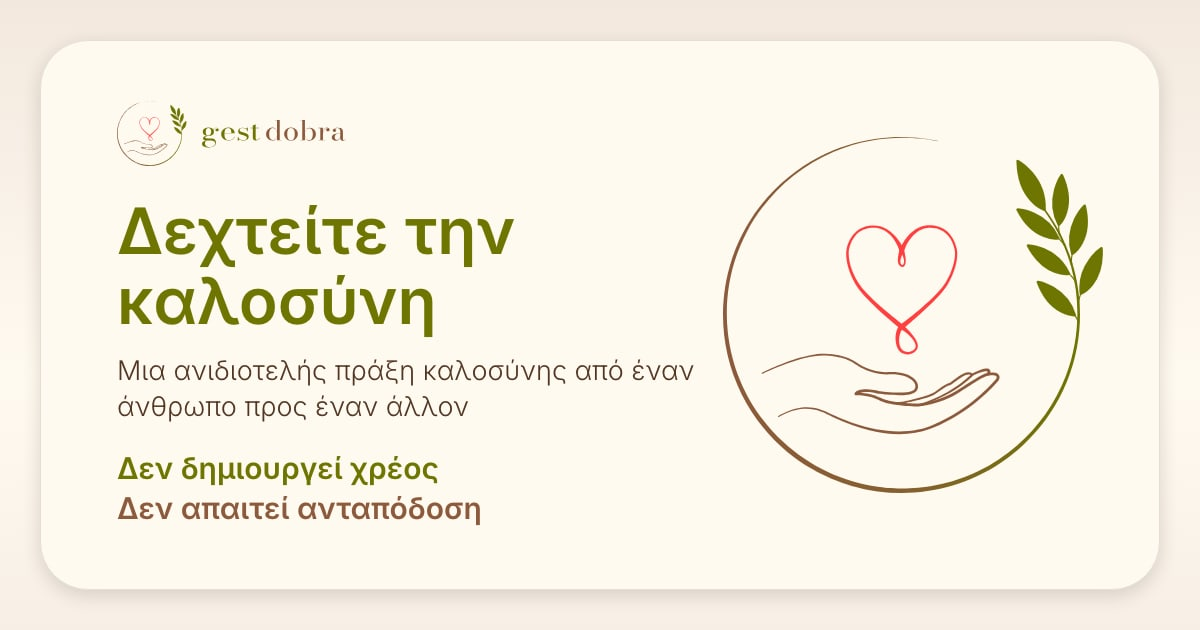
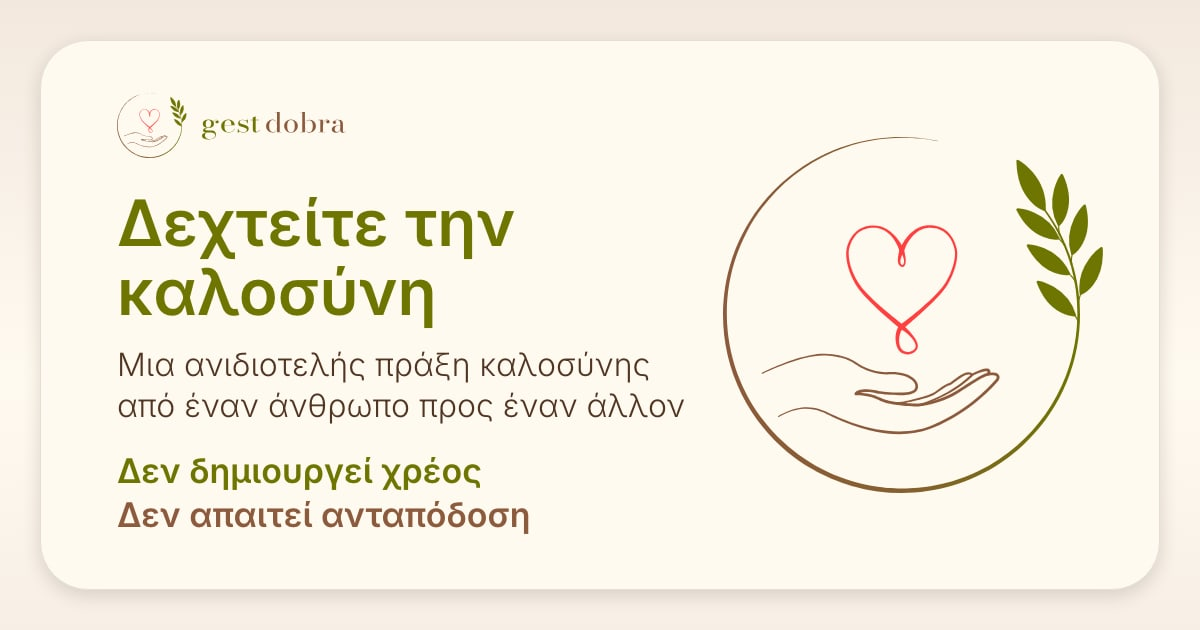
Grafika podglądu linku: większy opis i hasła, wersja edytowalna SVG (v2.0.3)

diff --git a/el/pos-leitourgei.html b/el/pos-leitourgei.html
@@ -25,7 +25,7 @@
   <meta property="og:title" content="Πώς λειτουργεί το Gest Dobra; Αρχές, κάρτα και συχνές ερωτήσεις">
   <meta property="og:description" content="Γνωρίστε τις αρχές του Gest Dobra, τον ρόλο της κάρτας, την ελευθερία από κάθε υποχρέωση ανταπόδοσης και τις απαντήσεις στις συχνότερες ερωτήσεις.">
   <meta property="og:url" content="https://gestdobra.pl/el/pos-leitourgei.html">
-  <meta property="og:image" content="https://gestdobra.pl/assets/img/og-image-el.jpg?v=2">
+  <meta property="og:image" content="https://gestdobra.pl/assets/img/og-image-el.jpg?v=3">
   <meta property="og:image:width" content="1200">
   <meta property="og:image:height" content="630">
   <meta property="og:image:alt" content="Λογότυπο Gest Dobra – μια καρδιά πάνω από ένα ανοιχτό χέρι και η φράση «Δεχτείτε την καλοσύνη»">
@@ -97,7 +97,7 @@
         },
         "primaryImageOfPage": {
           "@type": "ImageObject",
-          "url": "https://gestdobra.pl/assets/img/og-image-el.jpg?v=2",
+          "url": "https://gestdobra.pl/assets/img/og-image-el.jpg?v=3",
           "width": 1200,
           "height": 630
         },

diff --git a/el/index.html b/el/index.html
@@ -25,7 +25,7 @@
   <meta property="og:title" content="Gest Dobra – ανιδιοτελής βοήθεια που μπορείτε να μεταδώσετε">
   <meta property="og:description" content="Gest Dobra σημαίνει ανιδιοτελής βοήθεια, χωρίς χρέος και χωρίς ανταπόδοση. Δεχτείτε την καλοσύνη και, αν θέλετε, μεταδώστε τη.">
   <meta property="og:url" content="https://gestdobra.pl/el/">
-  <meta property="og:image" content="https://gestdobra.pl/assets/img/og-image-el.jpg?v=2">
+  <meta property="og:image" content="https://gestdobra.pl/assets/img/og-image-el.jpg?v=3">
   <meta property="og:image:width" content="1200">
   <meta property="og:image:height" content="630">
   <meta property="og:image:alt" content="Λογότυπο Gest Dobra – μια καρδιά πάνω από ένα ανοιχτό χέρι και η φράση «Δεχτείτε την καλοσύνη»">
@@ -97,7 +97,7 @@
         },
         "primaryImageOfPage": {
           "@type": "ImageObject",
-          "url": "https://gestdobra.pl/assets/img/og-image-el.jpg?v=2",
+          "url": "https://gestdobra.pl/assets/img/og-image-el.jpg?v=3",
           "width": 1200,
           "height": 630
         }

diff --git a/ru/kak-eto-rabotaet.html b/ru/kak-eto-rabotaet.html
@@ -25,7 +25,7 @@
   <meta property="og:title" content="Как работает Gest Dobra? Принципы, карточка и частые вопросы">
   <meta property="og:description" content="Познакомьтесь с принципами Gest Dobra, ролью карточки, отсутствием обязанности отвечать услугой и ответами на частые вопросы.">
   <meta property="og:url" content="https://gestdobra.pl/ru/kak-eto-rabotaet.html">
-  <meta property="og:image" content="https://gestdobra.pl/assets/img/og-image-ru.jpg?v=2">
+  <meta property="og:image" content="https://gestdobra.pl/assets/img/og-image-ru.jpg?v=3">
   <meta property="og:image:width" content="1200">
   <meta property="og:image:height" content="630">
   <meta property="og:image:alt" content="Логотип Gest Dobra – сердце над открытой ладонью и надпись «Примите добро»">
@@ -97,7 +97,7 @@
         },
         "primaryImageOfPage": {
           "@type": "ImageObject",
-          "url": "https://gestdobra.pl/assets/img/og-image-ru.jpg?v=2",
+          "url": "https://gestdobra.pl/assets/img/og-image-ru.jpg?v=3",
           "width": 1200,
           "height": 630
         },

diff --git a/ru/index.html b/ru/index.html
@@ -25,7 +25,7 @@
   <meta property="og:title" content="Gest Dobra — бескорыстная помощь, которую можно передать дальше">
   <meta property="og:description" content="Gest Dobra — это бескорыстная помощь без долга и ответной услуги. Примите добро и, если захотите, передайте его дальше.">
   <meta property="og:url" content="https://gestdobra.pl/ru/">
-  <meta property="og:image" content="https://gestdobra.pl/assets/img/og-image-ru.jpg?v=2">
+  <meta property="og:image" content="https://gestdobra.pl/assets/img/og-image-ru.jpg?v=3">
   <meta property="og:image:width" content="1200">
   <meta property="og:image:height" content="630">
   <meta property="og:image:alt" content="Логотип Gest Dobra – сердце над открытой ладонью и надпись «Примите добро»">
@@ -97,7 +97,7 @@
         },
         "primaryImageOfPage": {
           "@type": "ImageObject",
-          "url": "https://gestdobra.pl/assets/img/og-image-ru.jpg?v=2",
+          "url": "https://gestdobra.pl/assets/img/og-image-ru.jpg?v=3",
           "width": 1200,
           "height": 630
         }

diff --git a/en/how-it-works.html b/en/how-it-works.html
@@ -25,7 +25,7 @@
   <meta property="og:title" content="How Gest Dobra Works – Principles, the Card and FAQs">
   <meta property="og:description" content="Explore the principles of Gest Dobra, the role of the card, freedom from any obligation to return a favour, and answers to common questions.">
   <meta property="og:url" content="https://gestdobra.pl/en/how-it-works.html">
-  <meta property="og:image" content="https://gestdobra.pl/assets/img/og-image-en.jpg?v=2">
+  <meta property="og:image" content="https://gestdobra.pl/assets/img/og-image-en.jpg?v=3">
   <meta property="og:image:width" content="1200">
   <meta property="og:image:height" content="630">
   <meta property="og:image:alt" content="Gest Dobra logo – a heart floating above an open hand, with the words “Accept kindness”">
@@ -96,7 +96,7 @@
         },
         "primaryImageOfPage": {
           "@type": "ImageObject",
-          "url": "https://gestdobra.pl/assets/img/og-image-en.jpg?v=2",
+          "url": "https://gestdobra.pl/assets/img/og-image-en.jpg?v=3",
           "width": 1200,
           "height": 630
         },

diff --git a/chce-zrozumiec-wiecej.html b/chce-zrozumiec-wiecej.html
@@ -24,7 +24,7 @@
   <meta property="og:title" content="Jak działa Gest Dobra? Zasady, karta i najczęstsze pytania">
   <meta property="og:description" content="Poznaj zasady Gestu Dobra, rolę karty, brak obowiązku rewanżu i odpowiedzi na najczęstsze pytania.">
   <meta property="og:url" content="https://gestdobra.pl/chce-zrozumiec-wiecej.html">
-  <meta property="og:image" content="https://gestdobra.pl/assets/img/og-image.jpg?v=2">
+  <meta property="og:image" content="https://gestdobra.pl/assets/img/og-image.jpg?v=3">
   <meta property="og:image:width" content="1200">
   <meta property="og:image:height" content="630">
   <meta property="og:image:alt" content="Logo Gest Dobra – serce unoszące się nad otwartą dłonią i hasło „Przyjmij dobro”">
@@ -95,7 +95,7 @@
         },
         "primaryImageOfPage": {
           "@type": "ImageObject",
-          "url": "https://gestdobra.pl/assets/img/og-image.jpg?v=2",
+          "url": "https://gestdobra.pl/assets/img/og-image.jpg?v=3",
           "width": 1200,
           "height": 630
         },

diff --git a/en/index.html b/en/index.html
@@ -25,7 +25,7 @@
   <meta property="og:title" content="Gest Dobra – Kindness You Can Pass On">
   <meta property="og:description" content="Gest Dobra means kindness with no debt and no expectation of a favour in return. Accept it and, if you wish, pass it on.">
   <meta property="og:url" content="https://gestdobra.pl/en/">
-  <meta property="og:image" content="https://gestdobra.pl/assets/img/og-image-en.jpg?v=2">
+  <meta property="og:image" content="https://gestdobra.pl/assets/img/og-image-en.jpg?v=3">
   <meta property="og:image:width" content="1200">
   <meta property="og:image:height" content="630">
   <meta property="og:image:alt" content="Gest Dobra logo – a heart floating above an open hand, with the words “Accept kindness”">
@@ -96,7 +96,7 @@
         },
         "primaryImageOfPage": {
           "@type": "ImageObject",
-          "url": "https://gestdobra.pl/assets/img/og-image-en.jpg?v=2",
+          "url": "https://gestdobra.pl/assets/img/og-image-en.jpg?v=3",
           "width": 1200,
           "height": 630
         }

diff --git a/index.html b/index.html
@@ -24,7 +24,7 @@
   <meta property="og:title" content="Gest Dobra – przyjmij dobro i, jeśli chcesz, przekaż je dalej">
   <meta property="og:description" content="Bezinteresowny gest człowieka wobec człowieka. Nie tworzy długu i nie wymaga rewanżu.">
   <meta property="og:url" content="https://gestdobra.pl/">
-  <meta property="og:image" content="https://gestdobra.pl/assets/img/og-image.jpg?v=2">
+  <meta property="og:image" content="https://gestdobra.pl/assets/img/og-image.jpg?v=3">
   <meta property="og:image:width" content="1200">
   <meta property="og:image:height" content="630">
   <meta property="og:image:alt" content="Logo Gest Dobra – serce unoszące się nad otwartą dłonią i hasło „Przyjmij dobro”">
@@ -95,7 +95,7 @@
         },
         "primaryImageOfPage": {
           "@type": "ImageObject",
-          "url": "https://gestdobra.pl/assets/img/og-image.jpg?v=2",
+          "url": "https://gestdobra.pl/assets/img/og-image.jpg?v=3",
           "width": 1200,
           "height": 630
         }

diff --git a/PODSUMOWANIE-PROJEKTU.md b/PODSUMOWANIE-PROJEKTU.md
@@ -278,6 +278,7 @@ gest dobra/
 | 2.0.0 | 12.10.2026 | Publikacja na gestdobra.pl: docelowa domena w adresach kanonicznych, hreflang, danych strukturalnych, sitemap i robots.txt; .htaccess scalony z dotychczasową konfiguracją serwera (przekierowania na https://gestdobra.pl, blok PHP z cPanelu); kopia zapasowa starej strony w `_design/_backup-serwer-2026-10-12/` |
 | 2.0.1 | 20.10.2026 | Gałązka w ilustracji: listki nie odrywają się już od łodygi – zamiast kołysania całej gałązki (łodyga jest częścią okręgu i stoi w miejscu) każdy listek z ogonkiem drży wokół swojego punktu na łodydze; listki wyrastają kolejno od dołu, gdy rysowany okrąg dochodzi do ich miejsca |
 | 2.0.2 | 20.10.2026 | Grafika podglądu linku (Open Graph) we wszystkich językach: usunięte kropki na końcu hasła i opisu („Przyjmij dobro”, „…wobec człowieka”); rozmiary i układ bez zmian; wersja w adresie obrazka (`?v=2`), aby komunikatory pobrały nową grafikę |
+| 2.0.3 | 20.10.2026 | Grafika podglądu linku: większy opis pod hasłem (PL 29→35 px, pozostałe języki 27→32 px) i większe hasła „Nie tworzy długu” / „Nie wymaga rewanżu” (PL 33→38 px, pozostałe 30→34 px); nagłówek, logo, ilustracja i układ karty bez zmian; bez pojedynczych liter na końcu wiersza; wersja edytowalna (SVG z prawdziwym tekstem w Inter, logo i ilustracja jako wektory, dla każdego języka) w `_design/og-image-edytowalna/`; `?v=3` w adresie obrazka |
 
 ## 7. Czas realizacji
 - Wersja 1.0: 10.10.2026, 15:21–16:08, **ok. 47 minut**, wszystkie etapy łącznie z testami i dokumentacją.

diff --git a/README.md b/README.md
@@ -84,7 +84,7 @@ Skrypt odświeża w `index.html` sekcję `<head>` (title, opisy, canonical, href
 
 - **Nowy tekst do przetłumaczenia:** dodaj elementowi `data-i18n="klucz"` (dla atrybutów `data-i18n-attr="alt:klucz"`), a klucz i tłumaczenia do wszystkich plików JSON.
 - **Domena:** ustaw ją w stałej `SITE` na górze `tools/build-i18n.mjs`.
-- **Obrazki OG** (`assets/img/og-image-*.jpg`) są wygenerowane z tekstów hero. Przy zmianie hasła trzeba je odświeżyć.
+- **Obrazki OG** (`assets/img/og-image-*.jpg`) są wygenerowane z tekstów hero. Przy zmianie hasła trzeba je odświeżyć i podbić `OG_VER` w `tools/build-i18n.mjs` (komunikatory trzymają stary obrazek w pamięci). Edytowalne wersje SVG i skrypty generujące (puppeteer + sharp) leżą lokalnie w `_design/og-image-edytowalna/`.
 
 **Nazwa „Gest Dobra” w kroju i kolorach logo.** Generator (`brandify` w `tools/build-i18n.mjs`) owija w treści każde „Gest Dobra” (także odmiany, np. „Gestu Dobra”) w `<span class="brand-name">`: tekst w kroju Bodoni Moda opsz 18 (`bodoni-moda-litery.woff2`), małymi literami, „gest” zielone, „dobra” brązowe. Wystarczy pisać zwykły tekst i uruchomić generator. Działa też na przyciskach (po najechaniu kolor zmienia się z przyciskiem). Zwykłe linki, menu i okruszki zostają bez zmian.
 
